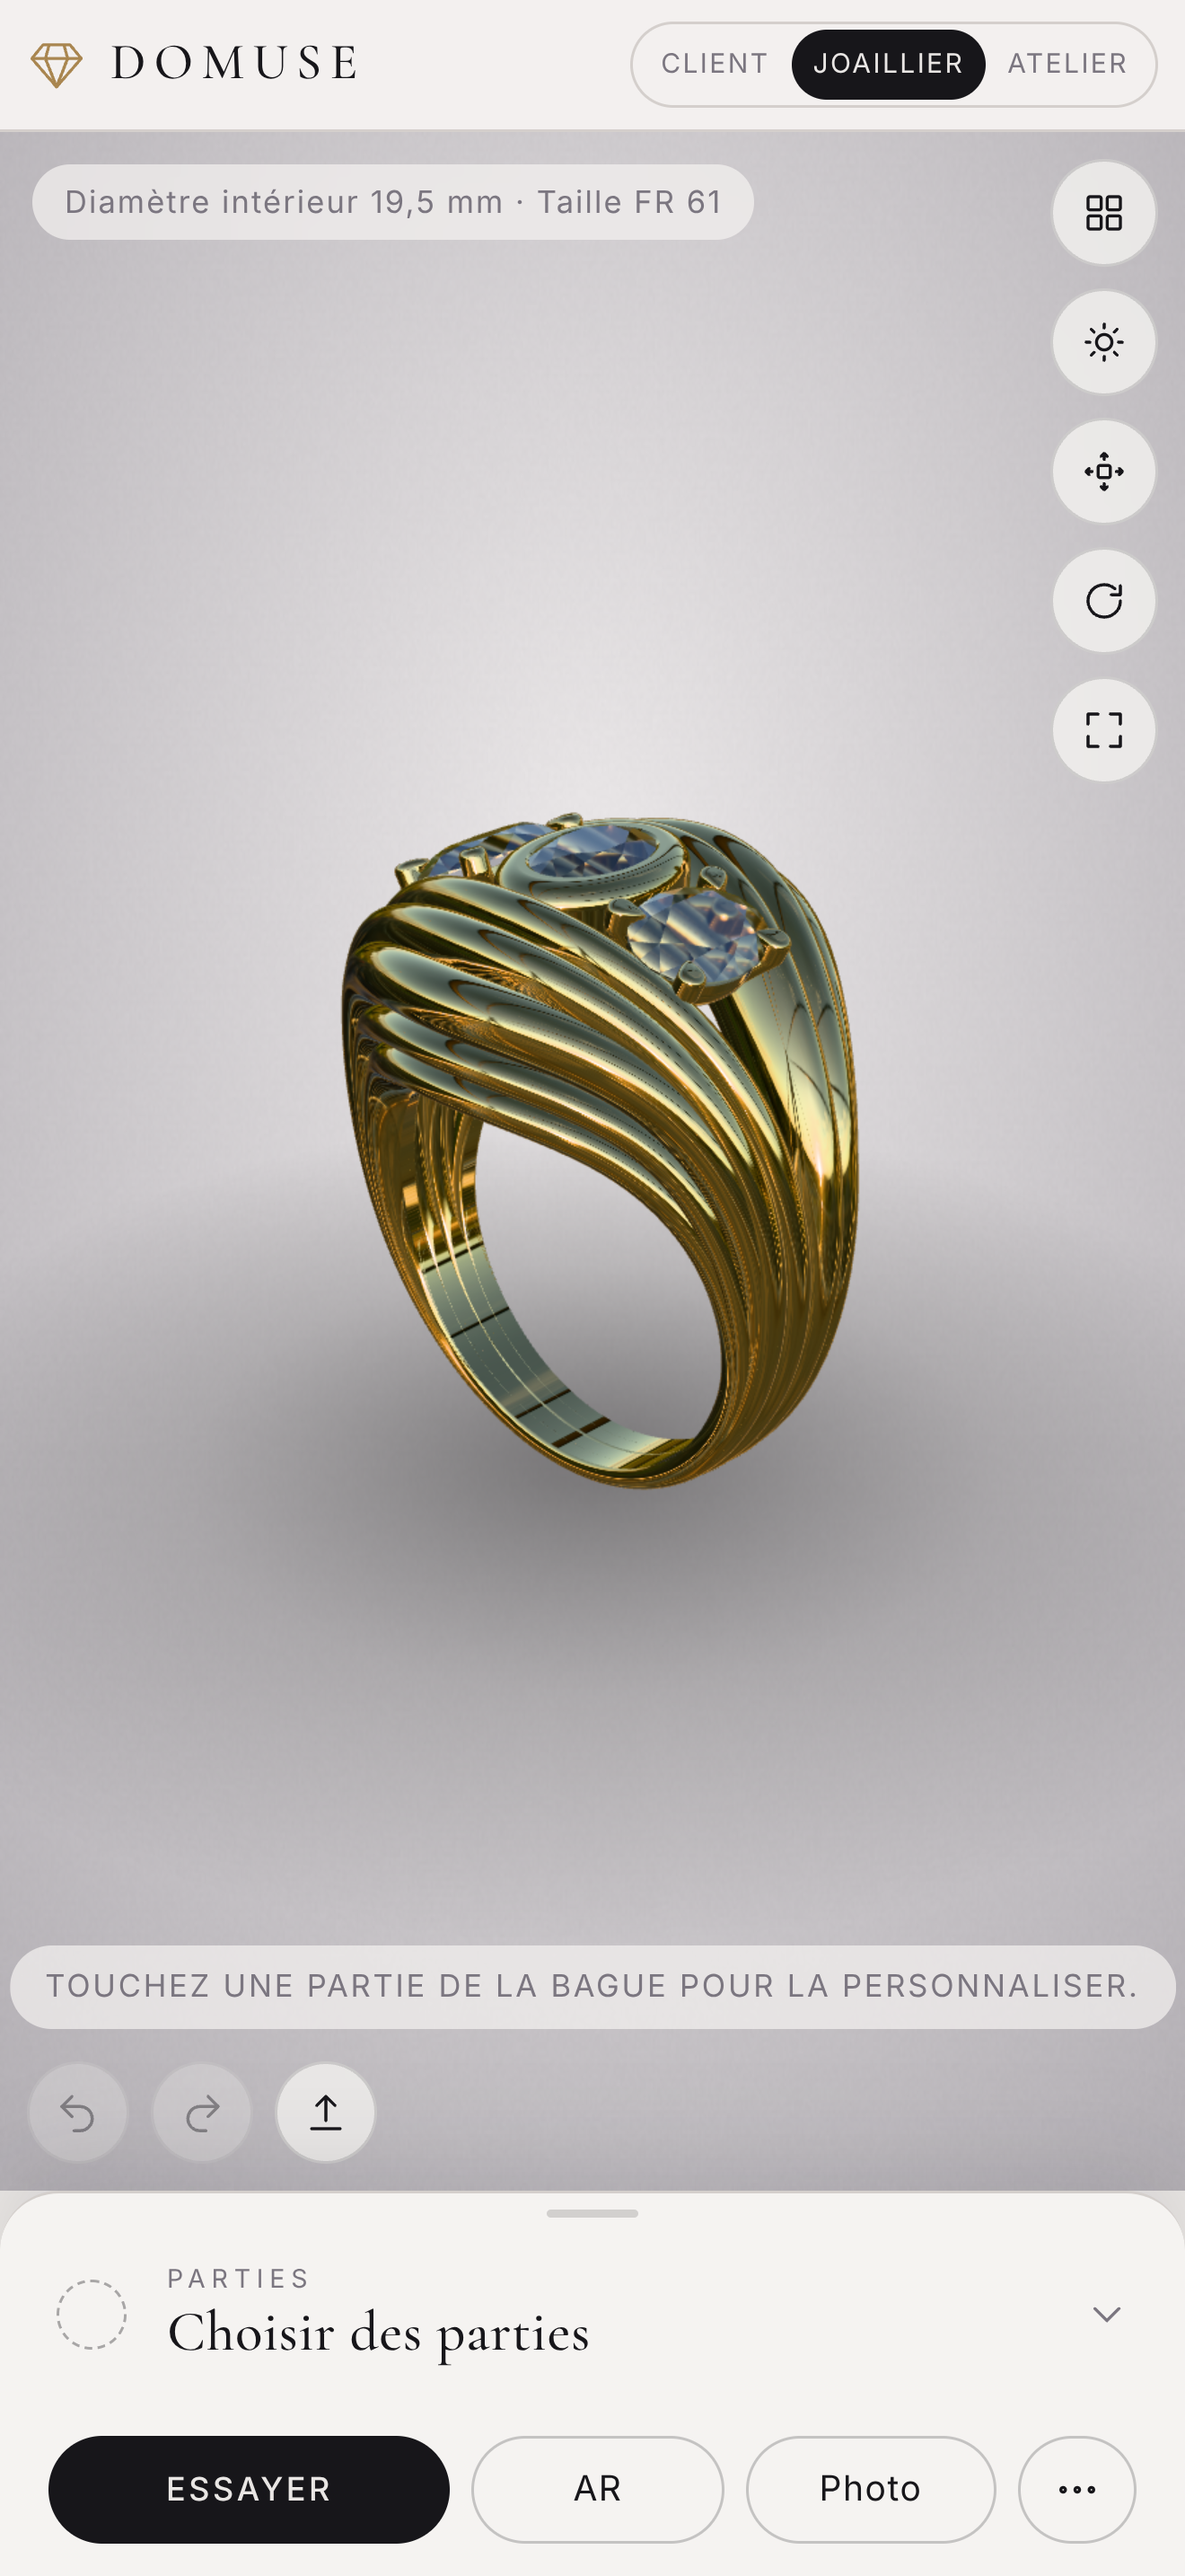
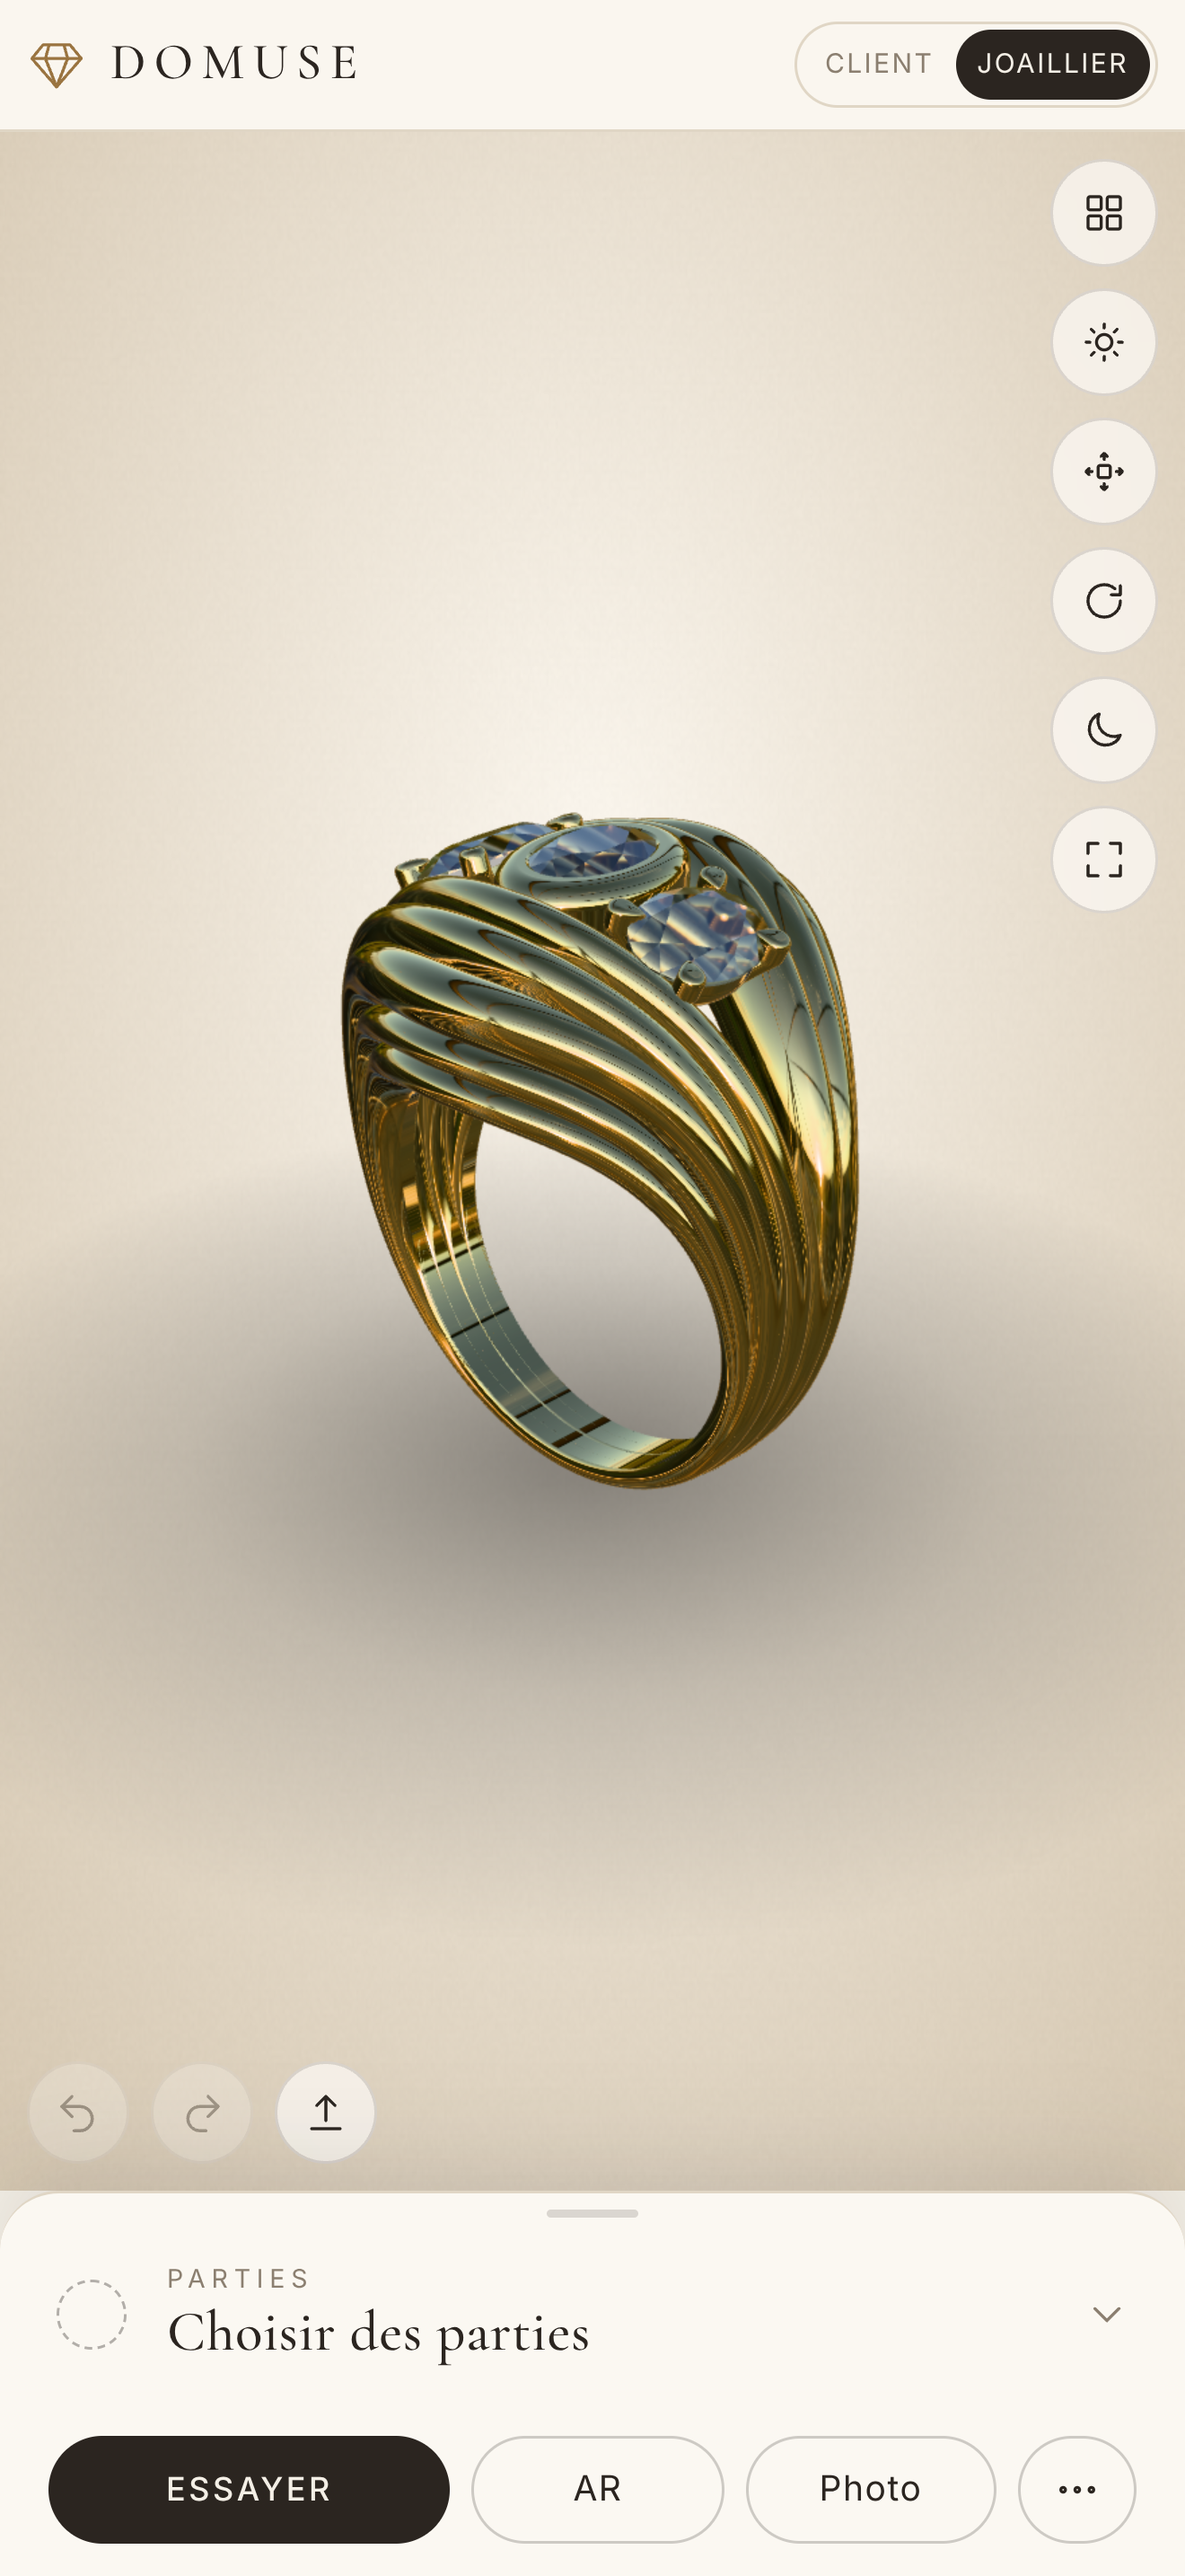
Thème clair/sombre (ivoire & champagne), mode Atelier et plein écran client retirés, vue 3D épurée, fix éclatement
Claude-Session: https://claude.ai/code/session_011GfdPs48k7LdCE9uPRnk2h

diff --git a/src/ui/ui.js b/src/ui/ui.js
@@ -12,7 +12,7 @@ import { frenchRingSize } from '../import/zones.js';
 const esc = (s) => String(s).replace(/[&<>"']/g, (c) => ({ '&': '&amp;', '<': '&lt;', '>': '&gt;', '"': '&quot;', "'": '&#39;' }[c]));
 const $ = (sel, root = document) => root.querySelector(sel);
 
-const BG = { light: '#d3d0d2', dark: '#16171c', transparent: null };
+const BG = { light: '#e9e0d0', dark: '#16140f', transparent: null };
 
 // Icônes au trait (cohérentes, sans emoji)
 const ic = (d) => `<svg viewBox="0 0 24 24" width="18" height="18" fill="none" stroke="currentColor" stroke-width="1.5" stroke-linecap="round" stroke-linejoin="round" aria-hidden="true">${d}</svg>`;
@@ -23,6 +23,8 @@ const ICON = {
   full: ic('<path d="M4 9V4h5M20 9V4h-5M4 15v5h5M20 15v5h-5"/>'),
   undo: ic('<path d="M9 14 4 9l5-5"/><path d="M4 9h9a6 6 0 0 1 0 12h-3"/>'),
   redo: ic('<path d="m15 14 5-5-5-5"/><path d="M20 9h-9a6 6 0 0 0 0 12h3"/>'),
+  sun: ic('<circle cx="12" cy="12" r="4"/><path d="M12 2v2M12 20v2M4.9 4.9l1.4 1.4M17.7 17.7l1.4 1.4M2 12h2M20 12h2M4.9 19.1l1.4-1.4M17.7 6.3l1.4-1.4"/>'),
+  moon: ic('<path d="M20 14.5A8 8 0 0 1 9.5 4 8 8 0 1 0 20 14.5Z"/>'),
   eye: ic('<path d="M2 12s3.6-6.5 10-6.5S22 12 22 12s-3.6 6.5-10 6.5S2 12 2 12Z"/><circle cx="12" cy="12" r="3"/>'),
   eyeOff: ic('<path d="M2 12s3.6-6.5 10-6.5c2 0 3.7.6 5.1 1.5M22 12s-3.6 6.5-10 6.5c-2 0-3.7-.6-5.1-1.5M4 4l16 16"/><path d="M9.9 9.9a3 3 0 0 0 4.2 4.2"/>'),
   explode: ic('<rect x="9" y="9" width="6" height="6" rx="1"/><path d="M12 3v3M10.5 4.5 12 3l1.5 1.5M12 21v-3M10.5 19.5 12 21l1.5-1.5M3 12h3M4.5 10.5 3 12l1.5 1.5M21 12h-3M19.5 10.5 21 12l-1.5 1.5"/>'),
@@ -38,7 +40,7 @@ export class UI {
     this.app = app;
     this.svc = services; // { openFile(file), reimport(patch) }
     const saved = prefs.get('mode', 'vitrine');
-    this.mode = saved === 'atelier' ? 'atelier' : 'vitrine';
+    this.mode = 'vitrine'; // le mode Atelier a été retiré
     this.locked = false; // lien client : l'interface ne peut pas quitter le mode client
     this.customHex = { metal: '#d8b45a', gem: '#4a7de0' };
     this.tab = 'metals';
@@ -61,7 +63,6 @@ export class UI {
         <div class="seg" role="group" aria-label="Mode">
           <button data-mode="client">${t('modeClient')}</button>
           <button data-mode="vitrine">${t('modeVitrine')}</button>
-          <button data-mode="atelier">${t('modeAtelier')}</button>
         </div>
         <button class="btn small client-exit" data-a="exit-client">${t('exitPreview')}</button>
       </header>
@@ -74,6 +75,7 @@ export class UI {
             <button class="icon-btn" data-pop-btn="env" aria-label="${t('environment')}" title="${t('environment')}">${ICON.light}</button>
             <button class="icon-btn" data-a="explode" aria-pressed="false" aria-label="${t('explode')}" title="${t('explode')}">${ICON.explode}</button>
             <button class="icon-btn" data-a="autorotate" aria-pressed="false" aria-label="${t('autoRotate')}" title="${t('autoRotate')}">${ICON.rotate}</button>
+            <button class="icon-btn" data-a="theme" aria-label="${t('theme')}" title="${t('theme')}"><span class="i-sun">${ICON.sun}</span><span class="i-moon">${ICON.moon}</span></button>
             <button class="icon-btn" data-a="present" aria-pressed="false" aria-label="${t('present')}" title="${t('present')}">${ICON.full}</button>
           </div>
           <div class="dock">
@@ -466,6 +468,7 @@ export class UI {
       case 'similar': app.selectSimilar(); break;
       case 'clearsel': app.clearSelection(); break;
       case 'autorotate': this.autorotate = !(el.getAttribute('aria-pressed') === 'true'); el.setAttribute('aria-pressed', String(this.autorotate)); app.viewer.setAutoRotate(this.autorotate); break;
+      case 'theme': this.toggleTheme(); break;
       case 'present': this.setPresent(this.el.dataset.present !== '1'); break;
       case 'present-exit': this.setPresent(false); break;
       case 'exit-client': if (!this.locked) this.setMode(prefs.get('mode', 'vitrine') === 'atelier' ? 'atelier' : 'vitrine'); break;
@@ -487,6 +490,25 @@ export class UI {
   }
 
   /** Plein écran : sur iPhone (pas d'API Fullscreen) l'interface se réduit à la vue 3D + un bouton de sortie visible. */
+  initTheme() {
+    let th = null; try { th = localStorage.getItem('rc:theme'); } catch {}
+    if (th === 'light' || th === 'dark') document.documentElement.dataset.theme = th;
+    this._syncThemeColor();
+  }
+  toggleTheme() {
+    const dark = document.documentElement.dataset.theme === 'dark' || (!document.documentElement.dataset.theme && matchMedia('(prefers-color-scheme: dark)').matches);
+    const next = dark ? 'light' : 'dark';
+    document.documentElement.dataset.theme = next;
+    try { localStorage.setItem('rc:theme', next); } catch {}
+    this._syncThemeColor();
+    this.app.viewer._applyBackground();
+    this.renderAll?.();
+  }
+  _syncThemeColor() {
+    const m = document.querySelector('meta[name=theme-color]');
+    if (m) m.content = getComputedStyle(document.documentElement).getPropertyValue('--bg').trim() || m.content;
+  }
+
   setPresent(on) {
     this.el.dataset.present = on ? '1' : '0';
     $('[data-a=present]', this.root).setAttribute('aria-pressed', String(on));
@@ -498,6 +520,7 @@ export class UI {
   }
 
   setMode(m) {
+    if (m === 'client' && this.el.dataset.present === '1') this.setPresent(false);
     if (this.locked) m = 'client';
     this.mode = m;
     if (m !== 'client') prefs.set('mode', m);

diff --git a/src/style.css b/src/style.css
@@ -1,21 +1,26 @@
 /* Joaillerie 3D — thème « joaillerie » : crème chaud / encre / champagne. Mobile d'abord (iPhone). */
 :root {
-  --bg: #e9e6e4; --surface: #f5f3f1; --surface-2: #e3dfdd; --ink: #17161a; --muted: #7b7680;
-  --line: #d4cfcc; --accent: #a98650; --accent-ink: #fff; --focus: #5b6cf0; --danger: #b3261e;
-  --stage-a: #e7e4e5; --stage-b: #b4b0b5; --shadow: 0 10px 34px rgba(30, 24, 36, .14);
+  /* Clair : ivoire / champagne / bronze doux */
+  --bg: #f4efe6; --surface: #fbf8f2; --surface-2: #ece4d6; --ink: #2b2520; --muted: #8b7f70;
+  --line: #e0d6c5; --accent: #9a7440; --accent-ink: #fffaf0; --focus: #8a6a3a; --danger: #a8372c;
+  --stage-a: #f8f3ea; --stage-b: #d6c8b2; --shadow: 0 10px 34px rgba(80, 60, 30, .14);
   --radius: 14px; --safe-b: env(safe-area-inset-bottom, 0px); --safe-t: env(safe-area-inset-top, 0px);
   --serif: 'Cormorant Garamond', ui-serif, 'New York', Georgia, 'Times New Roman', serif;
   --sans: -apple-system, BlinkMacSystemFont, 'SF Pro Text', 'Segoe UI', system-ui, Roboto, sans-serif;
+  color-scheme: light;
 }
+/* Sombre : noir chaud / or champagne */
 @media (prefers-color-scheme: dark) {
   :root:not([data-theme='light']) {
-    --bg: #0b0c10; --surface: #13151a; --surface-2: #1c1f26; --ink: #ece8e2; --muted: #8e8b96; --line: #262932;
-    --accent: #c9a56a; --accent-ink: #14110a; --stage-a: #2b2d34; --stage-b: #0b0c10; --shadow: 0 10px 34px rgba(0, 0, 0, .55);
+    --bg: #0d0c0b; --surface: #151412; --surface-2: #1f1d1a; --ink: #efe9df; --muted: #968d80; --line: #2a2723;
+    --accent: #c9a56a; --accent-ink: #14110a; --focus: #d9b97c; --stage-a: #2e2b27; --stage-b: #0d0c0b; --shadow: 0 10px 34px rgba(0, 0, 0, .55);
+    color-scheme: dark;
   }
 }
 :root[data-theme='dark'] {
-  --bg: #0b0c10; --surface: #13151a; --surface-2: #1c1f26; --ink: #ece8e2; --muted: #8e8b96; --line: #262932;
-  --accent: #c9a56a; --accent-ink: #14110a; --stage-a: #2b2d34; --stage-b: #0b0c10; --shadow: 0 10px 34px rgba(0, 0, 0, .55);
+  --bg: #0d0c0b; --surface: #151412; --surface-2: #1f1d1a; --ink: #efe9df; --muted: #968d80; --line: #2a2723;
+  --accent: #c9a56a; --accent-ink: #14110a; --focus: #d9b97c; --stage-a: #2e2b27; --stage-b: #0d0c0b; --shadow: 0 10px 34px rgba(0, 0, 0, .55);
+  color-scheme: dark;
 }
 * { box-sizing: border-box; -webkit-tap-highlight-color: transparent; }
 html, body { margin: 0; height: 100%; background: var(--bg); color: var(--ink); font: 15px/1.4 var(--sans); overscroll-behavior: none; -webkit-text-size-adjust: 100%; }
@@ -395,3 +400,16 @@ dialog { border-radius: 20px; }
 .app[data-present='1'] .parts { display: none; }
 .peye[aria-pressed='true'] { border-color: transparent; background: none; color: var(--muted); opacity: .7; }
 .peye { width: 34px; }
+
+/* Thème : bouton soleil / lune ; plein écran masqué en mode client */
+.app[data-mode='client'] [data-a=present] { display: none !important; }
+.app[data-mode='client'] .hud-right [data-a=theme] { display: inline-grid !important; }
+/* l'icône montre le mode vers lequel on bascule : lune en clair, soleil en sombre */
+[data-a=theme] .i-sun { display: none; }
+:root[data-theme='dark'] [data-a=theme] .i-sun { display: inline; }
+:root[data-theme='dark'] [data-a=theme] .i-moon { display: none; }
+@media (prefers-color-scheme: dark) { :root:not([data-theme='light']) [data-a=theme] .i-sun { display: inline; } :root:not([data-theme='light']) [data-a=theme] .i-moon { display: none; } }
+@media (max-height: 860px) { .hud-right { gap: 6px; } .hud-right .icon-btn { width: 40px; height: 40px; } }
+.app:has(.acc.open) .hint { display: none; }
+/* Vue 3D épurée : ni bandeau d'aide ni taille/diamètre (conservés dans les exports) */
+.hint, .hud-chip { display: none !important; }

diff --git a/src/ui/i18n.js b/src/ui/i18n.js
@@ -17,7 +17,7 @@ const fr = {
   similar: 'Sélectionner les similaires', multi: 'Multiple', fine: 'Pièce par pièce',
   mixedNote: 'Sélection mixte (métal et pierre) : choisissez une seule famille de parties.', severalMaterials: 'Plusieurs matières',
   partsPick: 'Choisir des parties', partsAll: 'Toute la bague', partsCount: 'parties', selectAll: 'Tout', selectNone: 'Aucune', similarShort: 'Similaires',
-  explode: 'Vue éclatée', explodePart: 'Écarter cette partie', assemblePart: 'Ranger cette partie',
+  theme: 'Clair / sombre', explode: 'Vue éclatée', explodePart: 'Écarter cette partie', assemblePart: 'Ranger cette partie',
   more: 'Plus', variantsHint: 'Comparer plusieurs versions de la bague', shareHint: 'Lien client, lien joaillier, QR code', recapHint: 'Fiche imprimable ou PDF',
   hide: 'Masquer', show: 'Afficher', rename: 'Renommer', type: 'Type', typeMetal: 'Métal', typeGem: 'Pierre',
   merge: 'Fusionner', split: 'Dissocier', rules: 'Matériaux autorisés (mode Joaillier)',
@@ -68,7 +68,7 @@ const en = {
   similar: 'Select similar parts', multi: 'Multiple', fine: 'Piece by piece',
   mixedNote: 'Mixed selection (metal and stone): pick one family of parts.', severalMaterials: 'Several materials',
   partsPick: 'Choose parts', partsAll: 'Whole ring', partsCount: 'parts', selectAll: 'All', selectNone: 'None', similarShort: 'Similar',
-  explode: 'Exploded view', explodePart: 'Move this part apart', assemblePart: 'Put this part back',
+  theme: 'Light / dark', explode: 'Exploded view', explodePart: 'Move this part apart', assemblePart: 'Put this part back',
   more: 'More', variantsHint: 'Compare several versions of the ring', shareHint: 'Client link, jeweller link, QR code', recapHint: 'Printable sheet or PDF',
   hide: 'Hide', show: 'Show', rename: 'Rename', type: 'Type', typeMetal: 'Metal', typeGem: 'Stone',
   merge: 'Merge', split: 'Split', rules: 'Allowed materials (Jeweller mode)', undo: 'Undo', redo: 'Redo',

diff --git a/src/core/explode.js b/src/core/explode.js
@@ -25,8 +25,7 @@ export class Exploder {
     if (!root) return;
     // remettre d'abord chaque mesh à sa position d'origine : les boîtes et positions de base se mesurent à l'état assemblé
     for (const [id, b] of this.base) { const p = app.pieceById(id); if (p) p.mesh.position.copy(b); }
-    this.tweens.clear();
-    this.base.clear(); this.offsets.clear();
+    this.base.clear(); this.offsets.clear(); // les animations en cours sont conservées (elles ne dépendent que des ids)
     root.updateMatrixWorld(true);
     const inv = new THREE.Matrix4().copy(root.matrixWorld).invert();
     const boxes = new Map();

diff --git a/src/core/viewer.js b/src/core/viewer.js
@@ -136,8 +136,8 @@ export class Viewer {
 
   _stageTexture(dark) {
     const css = getComputedStyle(document.documentElement);
-    const a = dark ? '#2b2d34' : (css.getPropertyValue('--stage-a').trim() || '#e7e4e5');
-    const b = dark ? '#0b0c10' : (css.getPropertyValue('--stage-b').trim() || '#b4b0b5');
+    const a = dark ? '#2e2b27' : (css.getPropertyValue('--stage-a').trim() || '#e7e4e5');
+    const b = dark ? '#0d0c0b' : (css.getPropertyValue('--stage-b').trim() || '#b4b0b5');
     const c = document.createElement('canvas');
     c.width = 512; c.height = 512;
     const g = c.getContext('2d');

diff --git a/index.html b/index.html
@@ -3,7 +3,7 @@
 <head>
   <meta charset="utf-8">
   <meta name="viewport" content="width=device-width, initial-scale=1, viewport-fit=cover, maximum-scale=1">
-  <meta name="theme-color" content="#e9e6e4">
+  <meta name="theme-color" content="#f4efe6">
   <meta name="mobile-web-app-capable" content="yes">
   <meta name="apple-mobile-web-app-capable" content="yes">
   <meta name="apple-mobile-web-app-status-bar-style" content="default">

diff --git a/src/main.js b/src/main.js
@@ -28,6 +28,7 @@ async function boot() {
   let pending = parseShareHash(location.hash); // configuration d'un lien de partage
 
   const ui = new UI(root, app, svc);
+  ui.initTheme(); app.viewer._applyBackground();
   if (pending?.client) ui.lockClient(); // lien client : interface épurée et verrouillée
   window.__rc = { app, ui, THREE }; // pratique pour le débogage et les tests E2E
 

diff --git a/DECISIONS.md b/DECISIONS.md
@@ -39,3 +39,6 @@
 - **Éclatement** : le « haut » est déduit des pierres/sertissage ; le corps (rôle `body`) descend à l'opposé, le reste monte radialement.
 - **Œil par partie** : masque/affiche une partie (réutilise `app.hidden`, annulable, conservé dans les liens de partage).
 - **Correctif** : masquer/afficher une partie recalcule l'éclatement ; les positions d'origine sont désormais remesurées à l'état assemblé (avant, la bague restait éclatée). Test : `scripts/explode-regression.mjs`.
+- **Mode Atelier retiré** (modes restants : Client / Joaillier). **Plein écran** masqué en mode client. **Thème clair/sombre** : palette ivoire-champagne-bronze (clair) et noir chaud-or (sombre), bouton lune/soleil dans la colonne d'outils, choix mémorisé, sinon réglage du système.
+- Éclatement : les animations en cours ne sont plus annulées quand on masque/affiche une partie (cause probable du bug « reste éclaté » si on enchaîne vite).
+- Bandeau d'aide et infos taille/diamètre retirés de la vue 3D (restent dans les exports).
